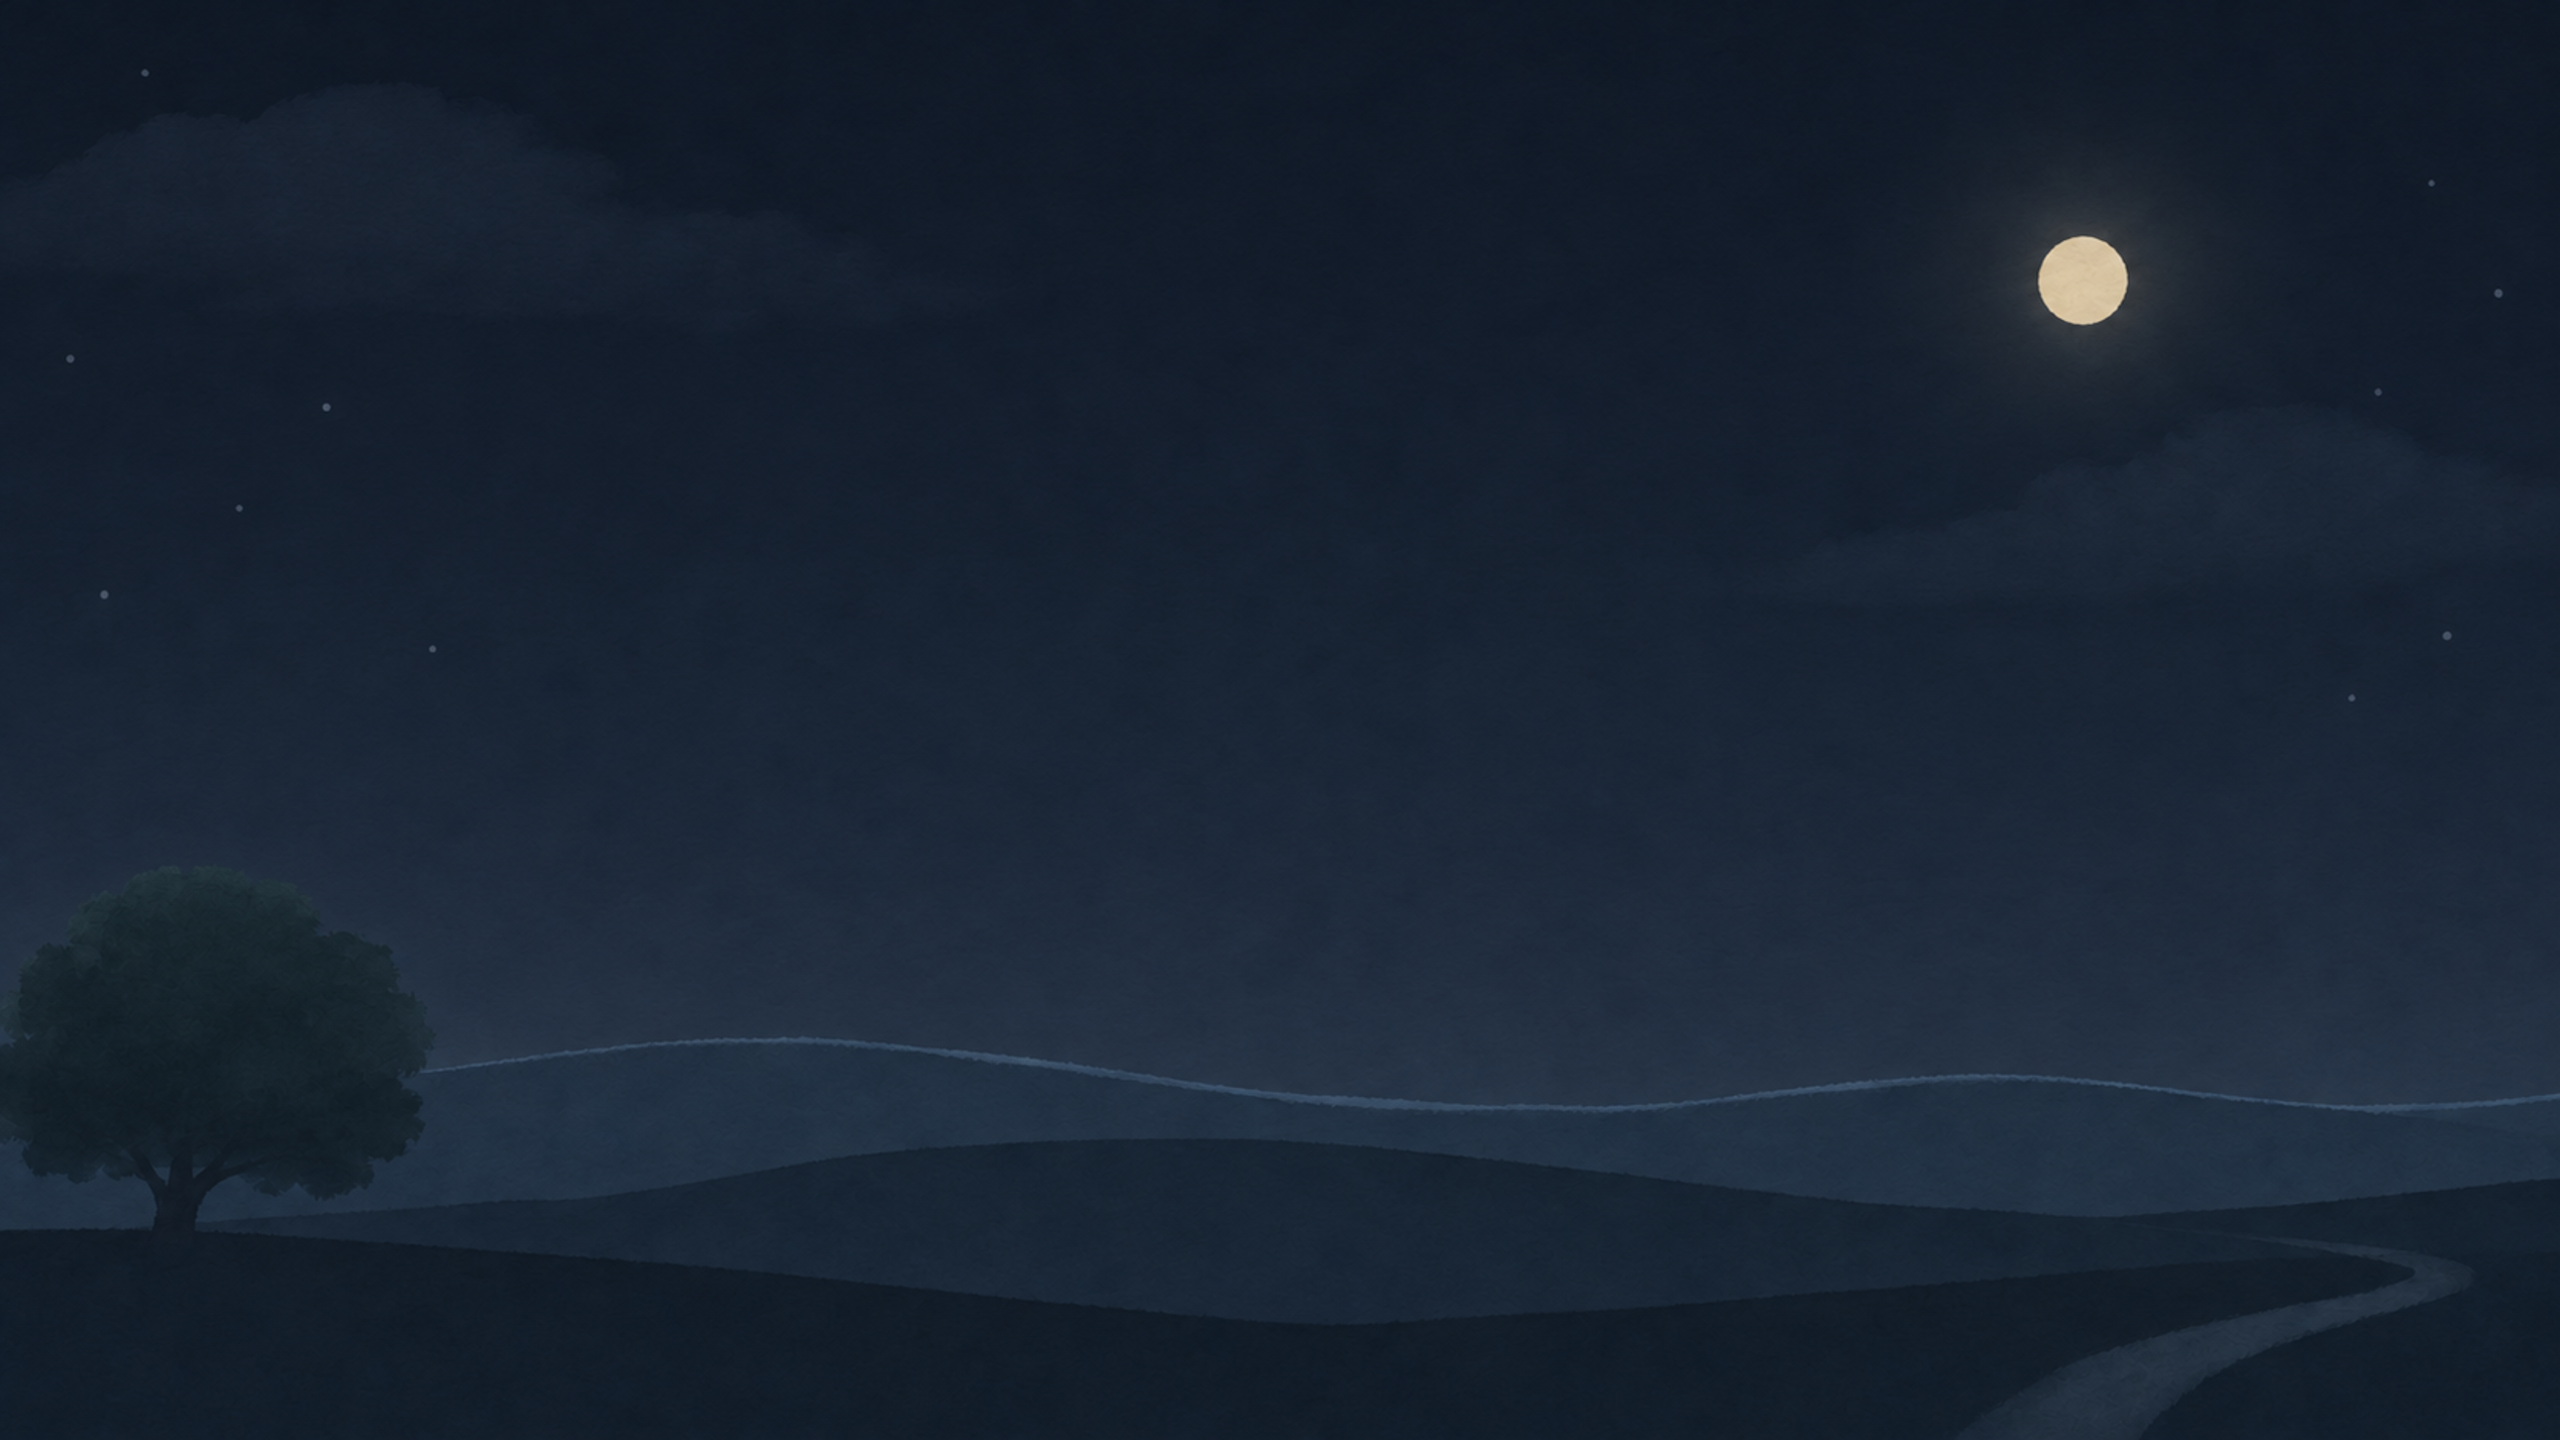
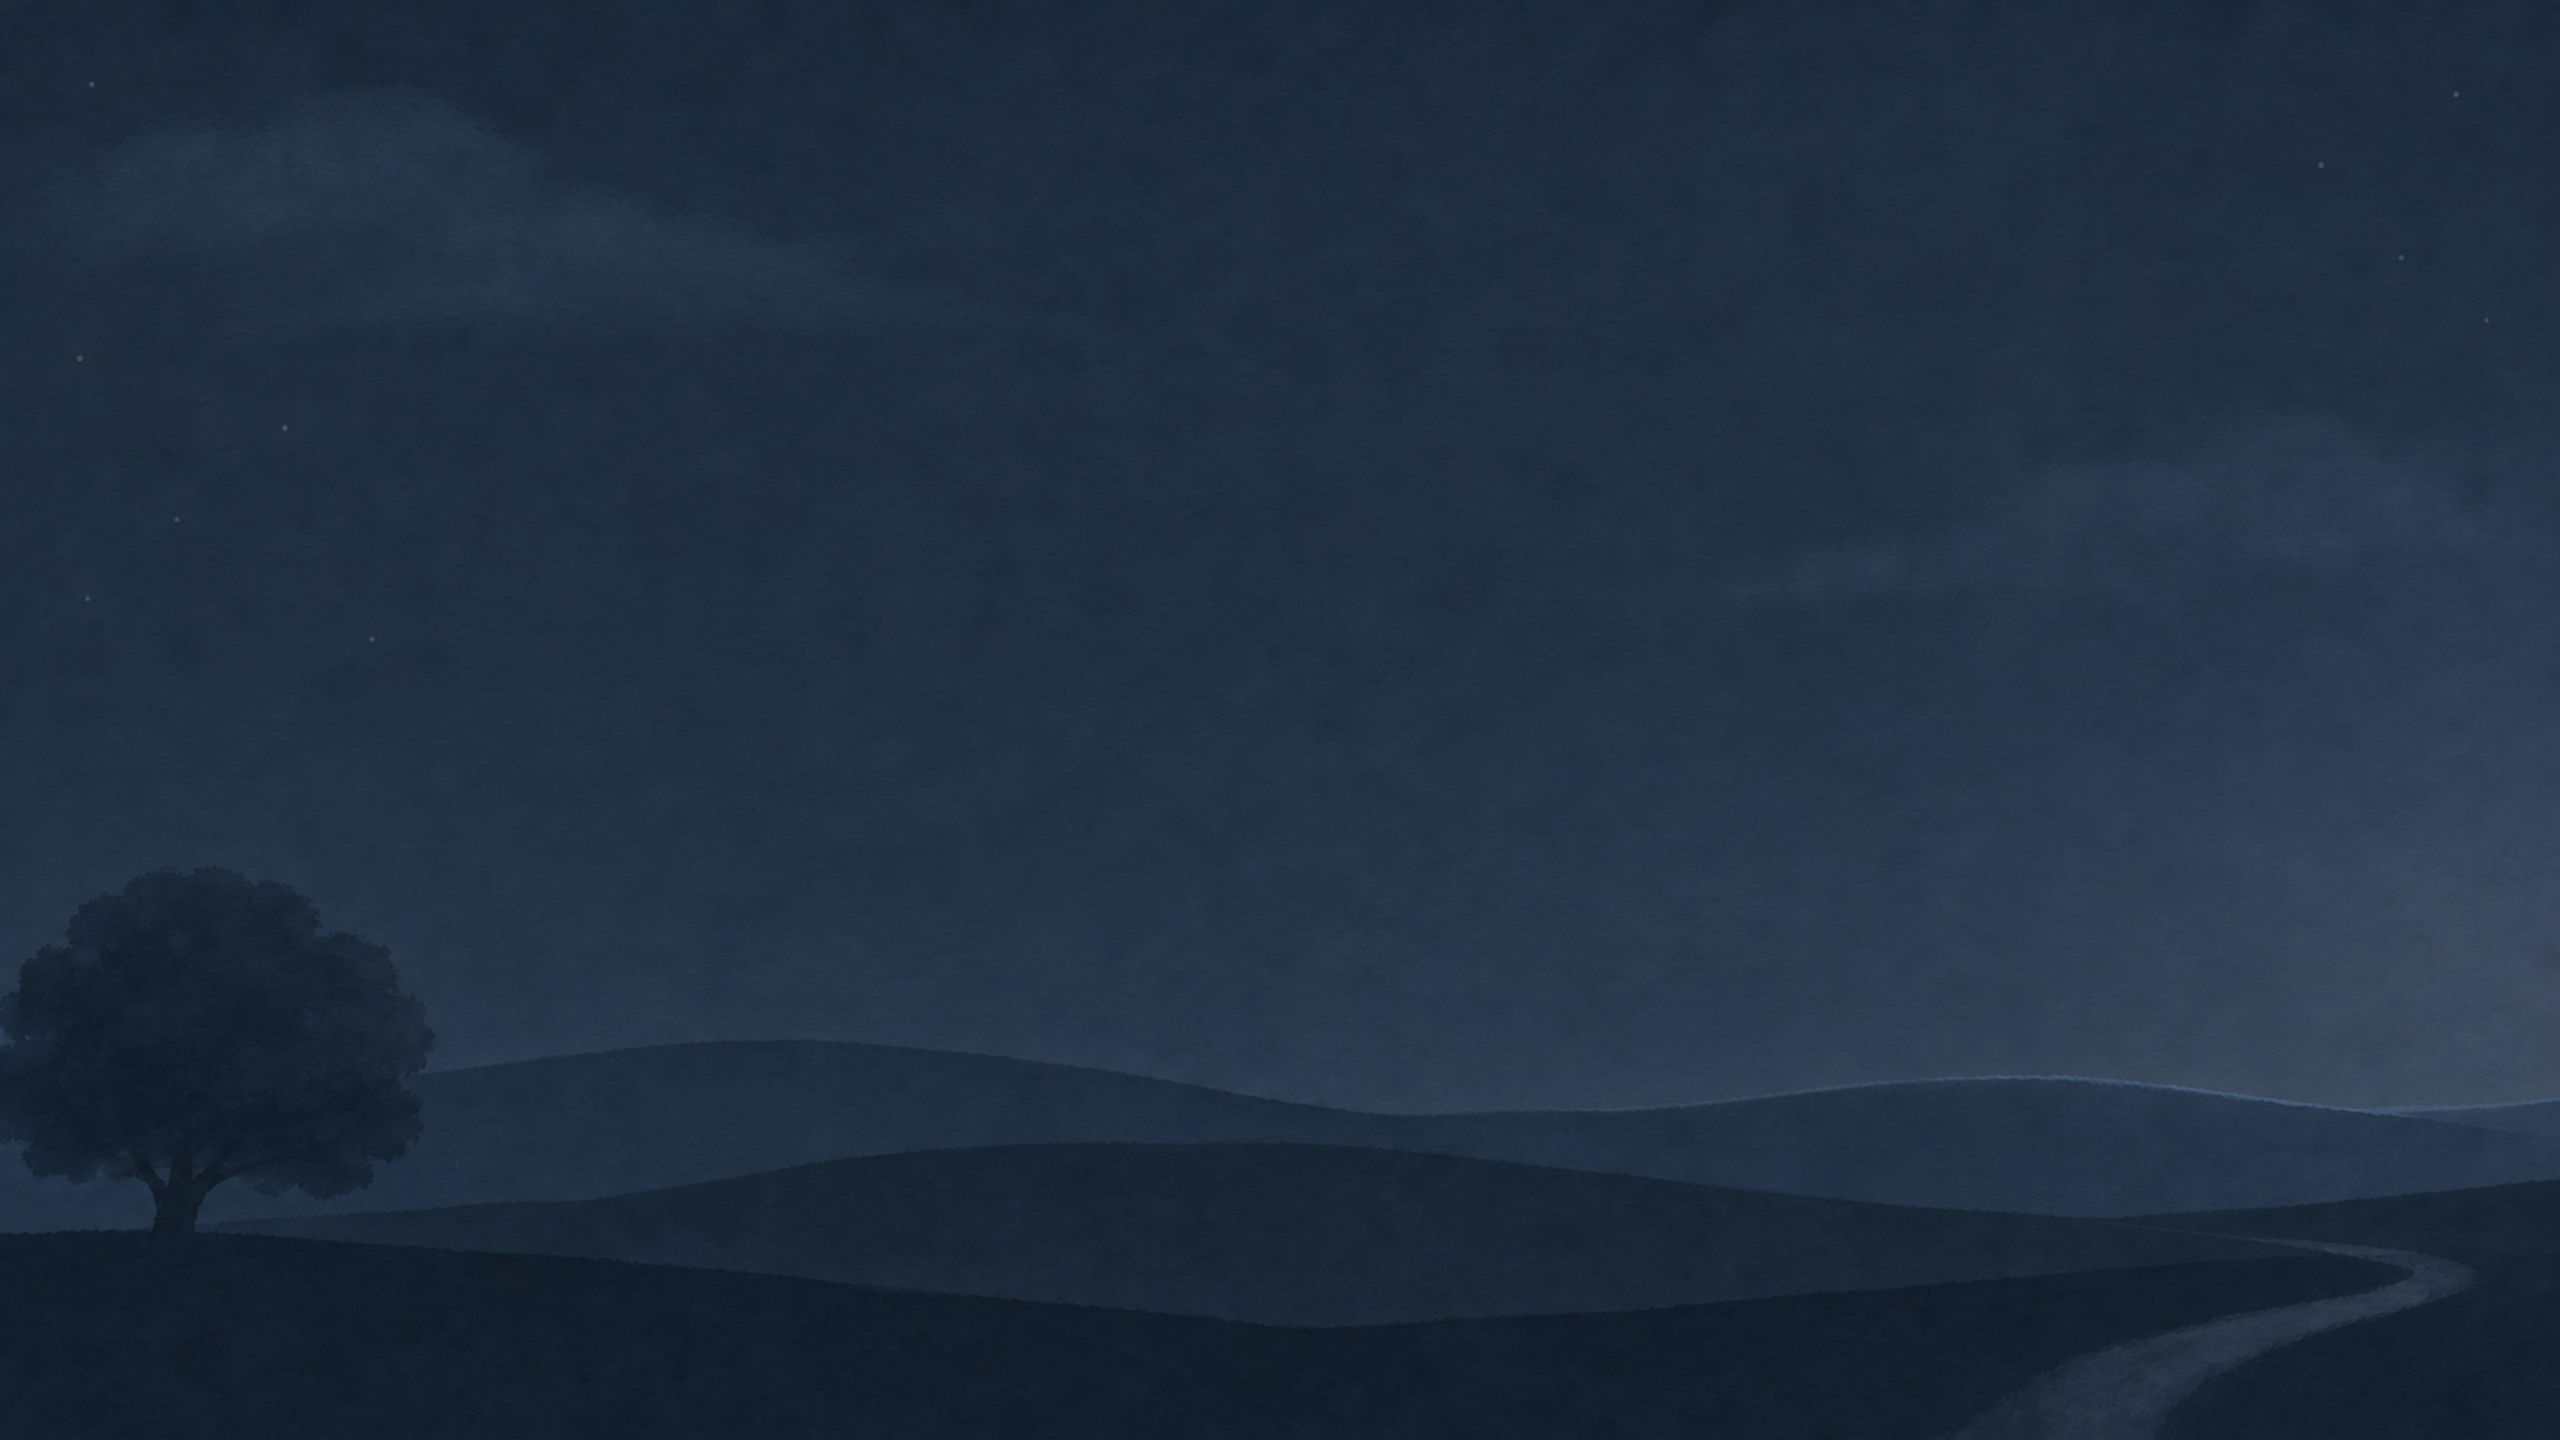
Round 4 batch 2: washi tape in sage, moonless access night, maximal portraits, readable immersion night

diff --git a/run_batch.py b/run_batch.py
@@ -11,6 +11,8 @@ from pathlib import Path
 ROOT = Path(__file__).resolve().parent
 WORK, R3 = ROOT / "work", ROOT / "work" / "_r3"
 SKIP = {"minimal/game-stage"}  # exact geometry: drawn by draw_minimal.py, not generated
+# regen lines whose brief says to keep the delivered shape: edit the current image instead of starting over
+EDIT = {"cozy/washi-tape"}
 
 # twin <- source: the twin is an edit of the source's raw, so the pair lines up
 TWINS = {
@@ -63,8 +65,17 @@ def main():
         ref, mode = "", ""
         if src and (WORK / src / "raw.png").exists():
             ref, mode = str(WORK / src / "raw.png"), "twin"
-        elif j["prompt"].startswith("REGEN") and (R3 / f"{k}.png").exists():
-            ref, mode = str(R3 / f"{k}.png"), "regen"
+        elif j["prompt"].startswith("REGEN"):
+            cur = ROOT / "images" / f"{k}.png"  # the current delivered image; round 3's if this round has none yet
+            old = cur if cur.exists() else R3 / f"{k}.png"
+            if old.exists():
+                ref, mode = str(WORK / k / "ref-current.png"), ("twin" if k in EDIT else "regen")
+                (WORK / k).mkdir(parents=True, exist_ok=True)
+                Path(ref).write_bytes(old.read_bytes())
+        prev = WORK / k / "raw.png"
+        if prev.exists():
+            n_old = len(list((WORK / k).glob("raw-prev*.png")))
+            prev.rename(WORK / k / f"raw-prev{n_old + 1}.png")
         args = ["bash", str(ROOT / "gen.sh"), p, n, j["prompt"] + hint(j)] + ([ref, mode] if ref else [])
         print("start", k, mode or "fresh", flush=True)
         subprocess.run(args)

diff --git a/recipes.py b/recipes.py
@@ -332,3 +332,23 @@ RECIPES["creator/topbar-band-night"] = drawn(creator_band_night)
 # ponytail: both Codex tries drew the icons on a ~4 px grid, so they are snapped at 4x (32x32 art), not the brief's
 # 16x16 at 8x; forcing 8 px blocks destroyed them. Upgrade path: hand-author the 16x16 grids in code.
 RECIPES["maximal/ui-icons"] = lambda: regrid(raw("maximal/ui-icons"), 4, 14)
+
+
+def portraits():
+    """4 portraits, each its own 256 cell on a 64x64 art grid at 4x, max 16 colours, flat spec background."""
+    from process4 import hexc
+    img = P.cover(raw("maximal/portraits").convert("RGB"), 1024, 256)
+    out = Image.new("RGB", (1024, 256))
+    for i, bg in enumerate(["#F4C6D7", "#C3C9F1", "#BFE8D9", "#FFE3A3"]):
+        cell = regrid(img.crop((i * 256, 0, i * 256 + 256, 256)), 4, 16).convert("RGB")
+        # the colour filling the cell corners is the backdrop: make it the exact spec colour
+        b = hexc(bg)
+        px = cell.load()
+        for y in range(256):  # backdrop speckle: anything close to the spec backdrop colour becomes it exactly
+            for x in range(256):
+                if sum((c - d) ** 2 for c, d in zip(px[x, y], b)) < 30 ** 2: px[x, y] = b
+        out.paste(cell, (i * 256, 0))
+    return out
+
+
+RECIPES["maximal/portraits"] = portraits

diff --git a/requests-batch2.md b/requests-batch2.md
@@ -1,0 +1,4 @@
+cozy/washi-tape.png | 360x64 | transparent | REGEN: delivered tape is blush with white dots, which disappears on the blush (#F6E1DC) message bubble it sits on (see the AMEND line above, which was missed). Keep the exact same shape, torn ends, -3 degree tilt and translucency (it is otherwise lovely), but base colour soft sage #CFDCC5, tiny cream #FFFDF7 polka dots, and one thin honey #D9A85B line along each long edge 6 px in. No pink. No text.
+access/backdrop-night.png | 2560x1440 | no | AMEND 2 (final; replaces the moon in both access/backdrop-night.png lines above): NO MOON at all. In the app a moon anywhere in the upper 70% shows up as a stray disc between message cards and next to avatars. Instead: a very soft warm moonlight glow coming from beyond the right edge, low on the horizon (a large diffuse wash of #2A3550 at most 15% lighter than the sky, centred off-canvas at x=110% y=75%), touching the right third of the far ridge as a faint rim #3A4E6B. Same composition otherwise: horizon at 72%, three flat hill layers #24324A / #1C283B / #151F2E, tree silhouette bottom-left, faint path bottom-right, at most 12 dim stars (#8E98AB, 1-2 px) only in the outer left 20% and right 12% of the sky. Matte gouache, paper grain, low contrast, calm. No text or letters.
+maximal/portraits.png | 1024x256 | opaque | full prompt: sprite sheet of 4 pixel-art character portraits (head and shoulders, front-facing, centred) in a single row, each in its own 256x256 cell, each drawn on a 64x64 art grid and upscaled exactly 4x nearest-neighbour (crisp 4x4 blocks, no anti-aliasing, max 16 colours per portrait, 1-art-pixel dark plum #4A2340 outline). Each cell has a flat solid background colour filling the whole cell edge to edge (no border, no frame, no vignette): cell 1 pale pink #F4C6D7, cell 2 periwinkle #C3C9F1, cell 3 mint #BFE8D9, cell 4 butter #FFE3A3. Portraits in order: 1 Captain Ilsa Varn: a weathered smuggler captain woman in her 40s, short dark auburn hair, a thin scar over one eyebrow, smirking, dark navy flight jacket with a high collar; 2 Dr. Wren Okafor: a Black woman botanist in her 30s, natural hair in a puff with a pencil in it, round glasses, white lab coat over a green sweater, calm smile; 3 Juno: a sleepy cheerful college student, 20, messy pastel-lavender bob, oversized hoodie, half-closed eyes, small yawn; 4 Rook: a young pilot, 20s, androgynous, short black hair, freckles, grey flight suit with an orange patch, determined look. Same art style, same head size and eye line across all four so they read as a set at 48 px. Avoid: text, letters, numbers, logos, frames, drop shadows, gradients in the background, photo realism.
+immersion/backdrop-night.png | 2560x1440 | no | REGEN: the new one obeyed "calm centre" too literally: the middle 60% is a near-black void (mean luminance ~26/255), so in the app the room reads as empty space with stars, and the only detail (moonlit window + sconces) sits in the LEFT 20%, exactly where the app's 320px chats sidebar covers it. Full prompt: same gothic castle library at night, same eye-level wide camera. Put the tall lancet window with the cool moonbeam (#6E7FA8) at x 24%-34% (NOT at the far left edge) so it shows beside a left sidebar, the moonbeam falling diagonally to the right across the floor. Bookcases on the far right x 82%-100% with two brass candle sconces (#F2C66D glow). Centre x 35%-80%: still calm and low-contrast, but READABLE as a room: a distant row of dim bookcases and a vaulted archway in mid-dark values #2E2118-#4A3424 (not black), soft candle warmth on the far shelves, no bright spots, no chandelier, no small busy objects. Lower 30%: simple polished stone floor with a dark oxblood (#8B1E2B) rug runner, catching faint moonlight. Overall average luminance about 45-55/255. Palette: night ink #1A1410, walnut #3A2618, aged gold #C9A24A, candle #F2C66D, moonlight #6E7FA8, oxblood #8B1E2B. Style: soft painterly anime VN background, gentle film grain, 2x-crisp, no baked-in vignette. Avoid: people, text/letters, runes, signage, chandelier, pure black areas, stars/sparkles. No text/letters in the image.

diff --git a/README.md b/README.md
@@ -2,7 +2,7 @@
 
 ## Round 4 (branch theming-r4-images)
 
-Same method as round 3 (Codex CLI image tool, then Pillow). Requests: `requests-batch1.md` (one line per image: `<persona>/<file>.png | WxH | transparent? | prompt`); retries with tightened prompts in `requests-batch1-retry.md`. Times per generation in `times.txt` (round 3's are in `times-r3.txt`).
+Same method as round 3 (Codex CLI image tool, then Pillow). Requests: `requests-batch1.md`, `requests-batch2.md` (one line per image: `<persona>/<file>.png | WxH | transparent? | prompt`); retries with tightened prompts in `requests-batch1-retry.md`. Times per generation in `times.txt` (round 3's are in `times-r3.txt`).
 
 - `run_batch.py requests-batchN.md [persona/name ...]` runs `gen.sh` 3 at a time. A night/day twin is generated as an edit of its source's raw (`TWINS` in run_batch.py); a REGEN line gets the round-3 image as a "what went wrong" reference, not a layout to copy.
 - `process4.py [persona/name ...]` turns `work/<persona>/<name>/raw.png` into `images/<persona>/<name>.png` at the exact size, using the per-image recipes in `recipes.py`.
